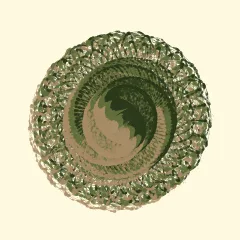
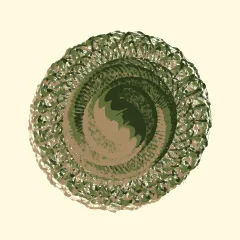
feat: liquid rope coiling - tykk maling kveiler seg når bøtta somler
Ekte viskøse stråler (honning-instabiliteten) legger seg i små løkker når
underlaget beveger seg saktere enn strålen faller. calcRopeCoiling() i
physics.ts modellerer landingspunktet som en liten sirkel rundt punktet
rett under hullet: onset ved viskositet > 0.45, aktiv under fart 0.35,
radius opptil 2.6 stråleradier med slow²-rampe, 46 rad/s (~12 steg/løkke).

Bevisst rng-FRITT (ren funksjon av t) og bakt inn i lagrede punktkoordinater,
så WYSIWYG-eksporten replayer det gratis og rng-rekkefølgen er urørt.

QA (headless, base vs ny): de 5 presetene med viskositet <= 0.45 rendrer
byte-identisk med HEAD; Default/Organisk/Zen/Blomst får virvel-tekstur i de
flate feltene i det tette senteret (+2-6 % punkter, maks fortsatt Kaotisk
~778k). Determinisme verifisert (samme seed -> identisk PNG). Miniatyrbilder
for organisk/zen/blomst regenerert.

diff --git a/src/lib/physics.ts b/src/lib/physics.ts
@@ -228,6 +228,46 @@ export function calcStreamBreakup(normFlow: number, viscosity: number): number {
   return Math.min(1, Math.pow(1 - normFlow / onset, 1.4));
 }
 
+// ── Liquid rope coiling ──
+// A viscous stream falling onto a surface that moves slower than the jet buckles
+// and coils like poured honey — the classic "liquid rope coiling" instability.
+// In pendulum painting this is what thick paint does when the bucket dawdles:
+// instead of laying a straight line it stacks tiny loops. We model the landing
+// point of the stream as a small circle traced around the point directly beneath
+// the hole. Deliberately rng-FREE (pure function of t), so the offset is baked
+// into the stored point coordinates and the WYSIWYG export replays it for free.
+/** Buckling frequency (rad/s). At DT = 0.012 one loop spans ~12 sim steps —
+ *  comfortably resolved, no aliasing. */
+const COIL_FREQ = 46;
+/** Thinner paint splashes/stretches rather than ropes — no coiling below this. */
+const COIL_ONSET_VISC = 0.45;
+/** Coiling only happens when the bucket moves slower than the falling jet
+ *  (physics units — the settling phase and the tips of narrow drop-fans). */
+const COIL_SPEED_MAX = 0.35;
+/** Max coil radius in stream radii — real coils are a couple of stream widths. */
+const COIL_RADIUS = 2.6;
+
+/** Landing offset of a coiling viscous stream (normalized canvas units).
+ *  Returns {0,0} for thin paint or a fast-moving bucket — most of the pattern
+ *  is untouched; coils appear only where real paint would coil. `phase` keeps
+ *  multiple holes from coiling in sync (pass e.g. holeIndex · golden angle). */
+export function calcRopeCoiling(
+  t: number,
+  speed: number,
+  viscosity: number,
+  streamRadius: number,
+  phase: number,
+): { dx: number; dy: number } {
+  const thick = (viscosity - COIL_ONSET_VISC) / (1 - COIL_ONSET_VISC);
+  if (thick <= 0) return { dx: 0, dy: 0 };
+  const slow = 1 - speed / COIL_SPEED_MAX;
+  if (slow <= 0) return { dx: 0, dy: 0 };
+  // slow² ramps the coil in gently as the bucket decelerates.
+  const r = streamRadius * COIL_RADIUS * Math.min(thick, 1) * slow * slow;
+  const a = COIL_FREQ * t + phase;
+  return { dx: r * Math.cos(a), dy: r * Math.sin(a) };
+}
+
 export function calcCentripetalAccel(vx: number, vy: number, prevVx: number, prevVy: number, dt: number): number {
   const ax = (vx - prevVx) / dt;
   const ay = (vy - prevVy) / dt;

diff --git a/src/components/PaintCanvas.tsx b/src/components/PaintCanvas.tsx
@@ -6,7 +6,7 @@ import {
   calcPosition, calcVelocity, isSimulationDone, prepareHarmonograph,
   calcPaintFlowRate, calcDropRadius, calcDropOpacity, calcBobHeight,
   calcCentripetalAccel, shouldSplash, calcPaintLevel, calcCanvasOffset,
-  calcStreamBreakup,
+  calcStreamBreakup, calcRopeCoiling,
 } from '@/lib/physics';
 import { drawThickStroke, drawSplashSplat, drawPaperTexture, getSymmetryTransforms, copySeed, mulberry32, Rng, SPLASH_GRAVITY, splashDrag } from '@/lib/painter';
 
@@ -358,11 +358,15 @@ export default function PaintCanvas({
 
         for (let h = 0; h < ps.holes.length; h++) {
           const hole = ps.holes[h];
-          const hx = cx + hole.offsetX;
-          const hy = cy + hole.offsetY;
 
           const baseR = ps.baseThickness * hole.thickness * 0.002;
           const radius = calcDropRadius(ps.baseThickness, hole.thickness, speed, zHeight, normFlow, ps.viscosity);
+          // Viscous rope coiling: thick paint from a dawdling bucket lands in tiny
+          // loops, not a straight line. rng-FREE and baked into the stored point
+          // coordinates below, so the WYSIWYG export replays it exactly.
+          const coil = calcRopeCoiling(t, speed, ps.viscosity, radius, h * 2.618);
+          const hx = cx + hole.offsetX + coil.dx;
+          const hy = cy + hole.offsetY + coil.dy;
           const opacity = calcDropOpacity(ps.opacity, radius, baseR, normFlow);
 
           const turb = (1 - ps.viscosity) * 0.3;

diff --git a/CLAUDE.md b/CLAUDE.md
@@ -178,6 +178,19 @@ the edge, so splats dry with a faint darker outline — strongest for watery pai
 deliberately **rng-FREE and drawn before the satellites**, so every previously rendered pixel
 stays byte-identical; the 5 splash presets' picker thumbnails were regenerated (non-splash
 Geometrisk/Zen/Blomst verified byte-identical).
+· liquid rope coiling (2026-07): thick paint from a dawdling bucket buckles into tiny loops
+(honey-coiling instability) instead of laying a straight line. `calcRopeCoiling(t, speed,
+viscosity, streamRadius, phase)` in `physics.ts` returns a landing offset traced as a circle
+(`COIL_FREQ = 46` rad/s ≈ 12 steps/loop at DT, onset `viscosity > 0.45`, active below bucket
+speed 0.35, radius up to 2.6 stream radii, `slow²` ramp); PaintCanvas adds it to the hole
+position BEFORE jitter, per hole with golden-angle phase (`h·2.618`). Deliberately **rng-FREE**
+(pure function of t) and baked into stored point coordinates → the WYSIWYG export replays it for
+free and the rng call order is untouched. Effect: flat dense-center fields gain a subtle swirl
+texture (thick paint), drop-fan tips get faint apex wobbles. QA-verified: the 5 presets with
+viscosity ≤ 0.45 (Rosett/Geometrisk/Kaotisk/Galakse/Regnbue) render byte-identically to
+pre-feature; Default/Organisk/Zen/Blomst differ (point counts +2–6%, max still Kaotisk ≈778k);
+organisk/zen/blomst picker thumbnails regenerated. **The headless QA sim must apply the coil
+offset identically** (computed after `radius`, added to the hole position before jitter).
 
 Remaining:
 1. **i18n** (English toggle) to widen reach.
